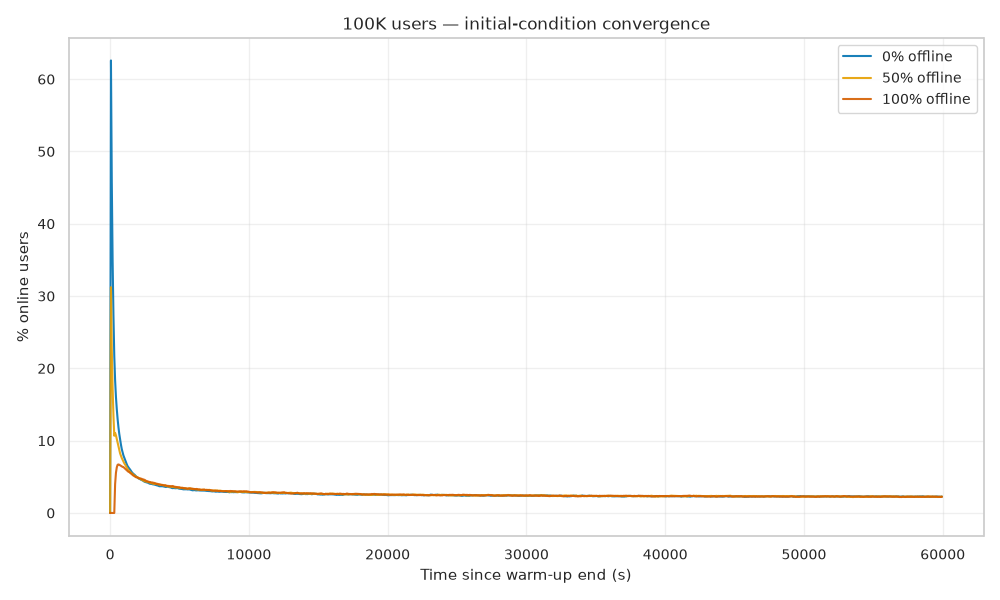
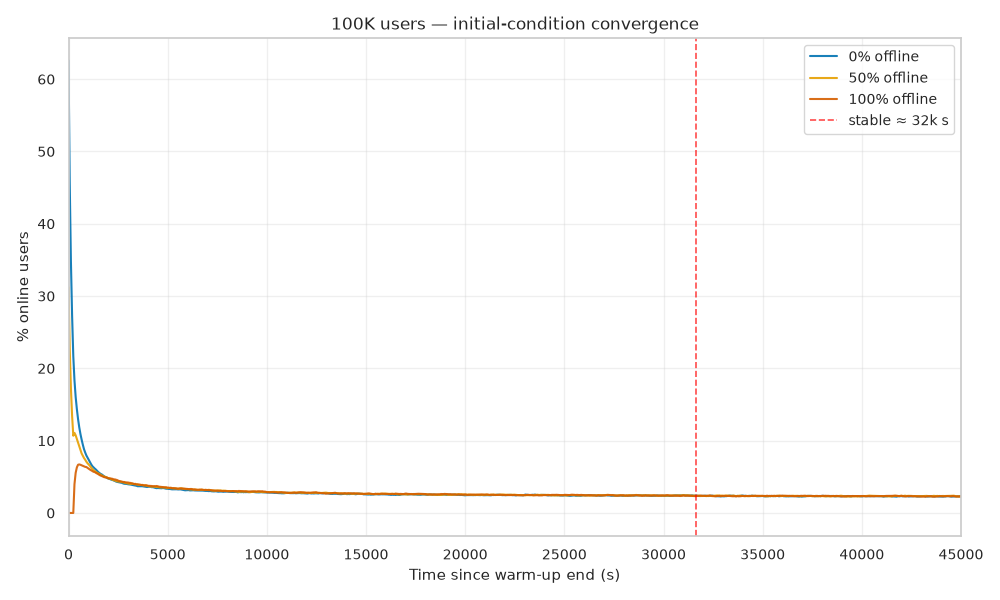
added more stabilities

diff --git a/experiments/stable-regime/stability_analysis.py b/experiments/stable-regime/stability_analysis.py
@@ -30,7 +30,8 @@ SIZES = ["10K", "100K", "500K", "1M"]
 RATIOS = [("r0", "0% offline", "#0072B2"), ("r50", "50% offline", "#E69F00"), ("r100", "100% offline", "#D55E00")]
 BIN = 60
 WINDOW_BINS = 5
-REL = 0.10
+REL = {"10K": 0.20, "100K": 0.10, "500K": 0.10, "1M": 0.10}  # wider band for 10K (noise-limited)
+XMAX = 45000  # zoom to the transient + early plateau; fits even 10K's slow fill-up
 
 def online_curve(path, warmup, duration, N):
     a = np.fromfile(path, dtype=DT)
@@ -41,7 +42,7 @@ def online_curve(path, warmup, duration, N):
     t, typ = t[order], typ[order]
     delta = np.where(typ == 0, 1, -1)
     cum = np.cumsum(delta)
-    grid = np.arange(warmup, warmup + duration, BIN)
+    grid = np.arange(warmup + BIN, warmup + duration, BIN)
     pos = np.searchsorted(t, grid, side='right') - 1
     online = np.where(pos >= 0, cum[np.clip(pos, 0, len(cum) - 1)], 0)
     return online / N * 100
@@ -54,11 +55,12 @@ def anchored(x, rel):
     last_bad = int(bad[-1]) if len(bad) else 0
     return (last_bad + 1 + WINDOW_BINS // 2) * BIN, final
 
-print(f"{'size':>5} {'ratio':>6} {'equil %':>9} {'stable_at(±10%)':>16}   (median over 3 runs)")
+print(f"{'size':>5} {'ratio':>6} {'equil %':>9} {'stable_at':>15}   (median over 3 runs)")
 if __name__ != "__main__":
     raise SystemExit
 for size in SIZES:
-    fig, ax = plt.subplots(figsize=(10, 6))
+    rows = []  # (label, color, mean_curve)
+    max_stable = 0
     for tag, label, color in RATIOS:
         d = f"{ROOT}/{size}/w2K-d60K-{tag}"
         w, dur = find_duration_and_warmup_time(d)
@@ -67,18 +69,31 @@ for size in SIZES:
         for run in range(3):
             c = online_curve(f"{d}/{run}-session_trace.bin", w, dur, N)
             curves.append(c)
-            t0, final = anchored(c, REL)
+            t0, final = anchored(c, REL[size])
             eqs.append(final); stabs.append(t0)
         n = min(len(c) for c in curves)
         mean_curve = np.mean(np.array([c[:n] for c in curves]), axis=0)
-        t_axis = np.arange(warmup_offset := 0, n) * BIN
-        ax.plot(np.arange(n) * BIN, mean_curve, label=label, color=color, alpha=0.9)
+        rows.append((label, color, mean_curve))
         eq, st = statistics.median(eqs), statistics.median(stabs)
+        max_stable = max(max_stable, st)
         print(f"{size:>5} {tag:>6} {eq:>9.2f} {st:>15.0f}s")
-    ax.set_xlabel("Time since warm-up end (s)")
-    ax.set_ylabel("% online users")
-    ax.set_title(f"{size} users — initial-condition convergence")
-    ax.legend(); ax.grid(True, alpha=0.3)
-    fig.tight_layout(); fig.savefig(os.path.join(OUT, f"initial_conditions_{size}.png"))
-    plt.close(fig)
-    print(f"  saved {OUT}/initial_conditions_{size}.png")
+
+    for log_y, suffix in [(False, ""), (True, "_log")]:
+        fig, ax = plt.subplots(figsize=(10, 6))
+        for label, color, mean_curve in rows:
+            ax.plot(np.arange(len(mean_curve)) * BIN, mean_curve, label=label, color=color, alpha=0.9)
+        ax.set_xlabel("Time since warm-up end (s)")
+        ax.set_ylabel("% online users")
+        ax.set_title(f"{size} users — initial-condition convergence")
+        if log_y:
+            ax.set_yscale("log")
+            ax.set_ylim(0.5, 100)
+        if max_stable < XMAX:
+            ax.axvline(max_stable, color="red", linestyle="--", linewidth=1.2, alpha=0.7,
+                       label=f"stable ≈ {max_stable / 1000:.0f}k s")
+        ax.set_xlim(0, XMAX)
+        ax.legend(); ax.grid(True, alpha=0.3)
+        fig.tight_layout()
+        fig.savefig(os.path.join(OUT, f"initial_conditions_{size}{suffix}.png"))
+        plt.close(fig)
+    print(f"  saved {size}: linear + log")
